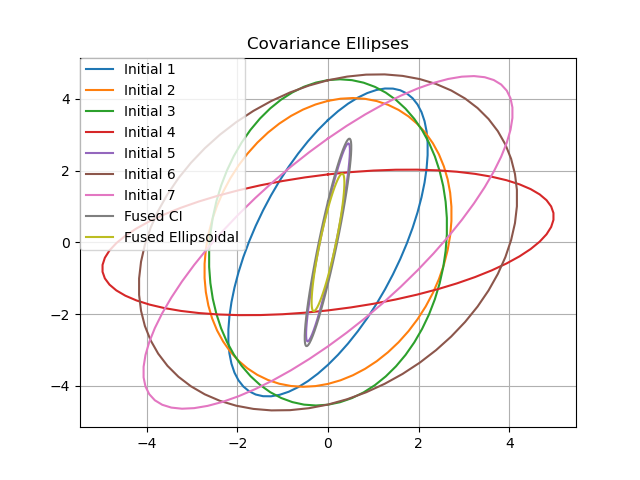
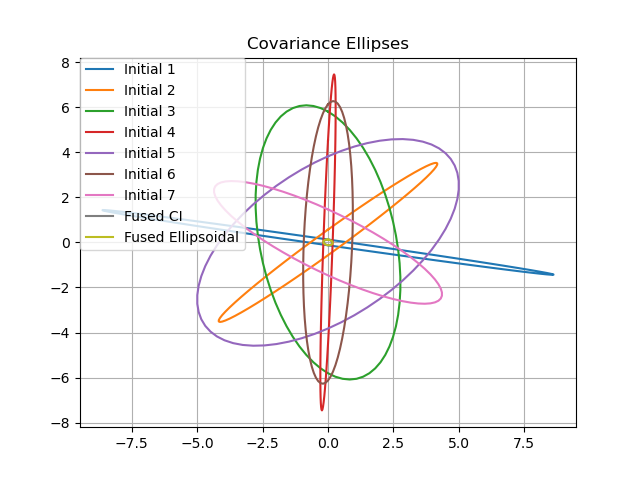
Stops when converges now

diff --git a/decentralizedFusion.py b/decentralizedFusion.py
@@ -29,7 +29,7 @@ def CI(mu_s, cov_s, weights):
     mu_comb = np.dot(comb_cov, total_mu)
     return mu_comb, comb_cov
 
-def find_optimal_cov_and_mu(iter, mu_s, cov_s):
+def find_optimal_cov_and_mu_random_sampling(iter, mu_s, cov_s, count):
     N_agents = len(mu_s)
     default_weights = np.full((N_agents, ), 1./len(mu_s))
     mu, cov = CI(mu_s, cov_s, default_weights)
@@ -37,9 +37,30 @@ def find_optimal_cov_and_mu(iter, mu_s, cov_s):
         weights = np.random.rand(N_agents, )
         weights/= sum(weights)
         pot_mu, pot_cov = CI(mu_s, cov_s, weights)
-        if(LA.det(pot_cov) < LA.det(cov)):
+        count_used = False
+        if LA.det(pot_cov) < LA.det(cov):
+            count_used = True
             mu, cov = pot_mu, pot_cov
-    return mu, cov
+    if(count_used):
+        count += 1.0
+    return mu, cov, count
+
+def find_optimal_cov_and_mu_analytical(iter, mu_s, cov_s, count):
+    N_agents = len(mu_s)
+    default_weights = np.full((N_agents, ), 1./len(mu_s))
+    mu, cov = CI(mu_s, cov_s, default_weights)
+    det = np.array([LA.det(c) for c in cov_s])
+    weights = det/np.sum(det)
+    weights = max(weights) - weights
+    pot_mu, pot_cov = CI(mu_s, cov_s, weights)
+    count_used = False
+    if LA.det(pot_cov) < LA.det(cov):
+        count_used = True
+        mu, cov = pot_mu, pot_cov
+    if(count_used):
+        count += 1.0
+    return mu, cov, count
+
 
 def get_weights(sensor_covariances):
     determinats = np.array([np.linalg.det(cov) for cov in sensor_covariances])
@@ -50,6 +71,7 @@ def get_weights(sensor_covariances):
     return weights, c
 
 def covarianceIntersection(sensor_readings, sensor_covariances, N_time_steps, neighbors, N_agents, KL_inp, true_dist, calculate_KL=False, calculate_det=True):
+    count = 0.0
     KL_div = {}
     determinant_progression = {}
     for i in range(N_agents):
@@ -63,12 +85,23 @@ def covarianceIntersection(sensor_readings, sensor_covariances, N_time_steps, ne
             for k in neighbors[j][0]:
                 mu_s.append(sensor_readings[k])
                 cov_s.append(sensor_covariances[k])
-            sensor_readings[j], sensor_covariances[j] = find_optimal_cov_and_mu(5, mu_s, cov_s)
+            sensor_readings[j], sensor_covariances[j], count = find_optimal_cov_and_mu_analytical(100, mu_s, cov_s, count)
             if(calculate_KL):
                 dist = multivariate_normal(sensor_readings[j], sensor_covariances[j])
                 KL_div[j].append(compute_KL(true_dist, dist, KL_inp))
             if(calculate_det):
                 determinant_progression[j].append(LA.det(sensor_covariances[j]))
+        converged = True
+        ref_det = round(LA.det(sensor_covariances[0]), 10)
+        for k in range(1, N_agents):
+            if not round(LA.det(sensor_covariances[k]), 10) == ref_det:
+                converged = False
+                break
+        if converged:
+            break
+
+    percent = (count/(N_time_steps*N_agents))*100
+    print("Percent of time alternative weights used: " + str(percent) + " %")
     return sensor_readings, sensor_covariances, KL_div, determinant_progression
 
 def MutualCovariance(cov_i, cov_j):
@@ -109,7 +142,7 @@ def MutualMean(cov_i, cov_j, mut_cov, mu_i, mu_j):
     mat_3 = np.dot(LA.inv(cov_i) - LA.inv(mut_cov) + lamda, mu_j)
     return  np.dot(mat_1, (mat_2 + mat_3)), False
 
-def ellipsoidalIntersection(sensor_mus, sensor_covariarances, neighbors, time_steps=1000, track_KL=False, track_det=True, **kwargs):
+def ellipsoidalIntersection(sensor_mus, sensor_covariarances, neighbors, time_steps=1000, track_KL=False, track_det=True, true_dist=0, KL_inp=[]):
     N_agents = len(sensor_mus)
     edge_list = []
     KL_div = {}
@@ -139,7 +172,7 @@ def ellipsoidalIntersection(sensor_mus, sensor_covariarances, neighbors, time_st
             break
         if(track_KL):
             for j in range(N_agents):
-                dist = multivariate_normal(sensor_readings[j], sensor_covariances[j])
+                dist = multivariate_normal(sensor_mus[j], sensor_covariarances[j])
                 KL_div[j].append(compute_KL(true_dist, dist, KL_inp))
         if(track_det):
             for j in range(N_agents):

diff --git a/main.py b/main.py
@@ -147,7 +147,7 @@ sensor_mus_CI, sensor_covs_CI, KL_div_CI, determinants_CI = covarianceIntersecti
 
 plot_ellipse(sensor_covs_CI[0], ax, "Fused CI")
 
-sensor_mus_Ellip, sensor_covs_Ellip, KL_div_Ellip, determinants_Ellip = ellipsoidalIntersection(np.copy(sensor_mus), np.copy(sensor_covs), neighbors, time_steps=1000)
+sensor_mus_Ellip, sensor_covs_Ellip, KL_div_Ellip, determinants_Ellip = ellipsoidalIntersection(np.copy(sensor_mus), np.copy(sensor_covs), neighbors, time_steps=1000, KL_inp = KL_inputs, true_dist=P_centralized)
 plot_ellipse(sensor_covs_Ellip[0], ax, "Fused Ellipsoidal")
 
 plt.legend(loc='upper left', borderaxespad=0.)
@@ -185,7 +185,7 @@ if(calculate_KL_guard):
 
 if(calculate_covariance_det):
     ax = plt.axes()
-    X_axis = [i for i in range(1, min(len(determinants_CI[0]) + 1, 50) + 1)]
+    X_axis = [i for i in range(1, min(len(determinants_CI[0]), 50) + 1)]
     for i in range(N_agents):
         deter = determinants_CI[i][:min(len(determinants_CI[i]), 50)]
         ax.plot(X_axis, deter, label = "Sensor " + str(i + 1))
@@ -199,7 +199,7 @@ if(calculate_covariance_det):
     plt.show()
 
     ax = plt.axes()
-    X_axis = [i for i in range(1, min(len(determinants_Ellip[0]) + 1, 50) + 1)]
+    X_axis = [i for i in range(1, min(len(determinants_Ellip[0]), 50) + 1)]
     for i in range(N_agents):
         deter = determinants_Ellip[i][:min(len(determinants_Ellip[i]), 50)]
         ax.plot(X_axis, deter, label = "Sensor " + str(i + 1))

diff --git a/gaussianDistribution.py b/gaussianDistribution.py
@@ -8,8 +8,10 @@ def sampleMeasuredSensorFromTrue(dims, num_sensors, target_loc):
     mu = toTuple(target_loc)
     scalar = 25
     for i in range(num_sensors):
-        S = np.tril(np.random.rand(dims, dims))
+        S = np.tril(np.random.randn(dims, dims))
         cov = np.dot(S, S.T) * scalar
+        while(np.linalg.det(cov) < 0.5):
+            cov = cov * 2
         covs.append(cov)
         mu_i = np.random.multivariate_normal(mu, cov, 1)[0]
         sensor_mus.append(mu_i)
